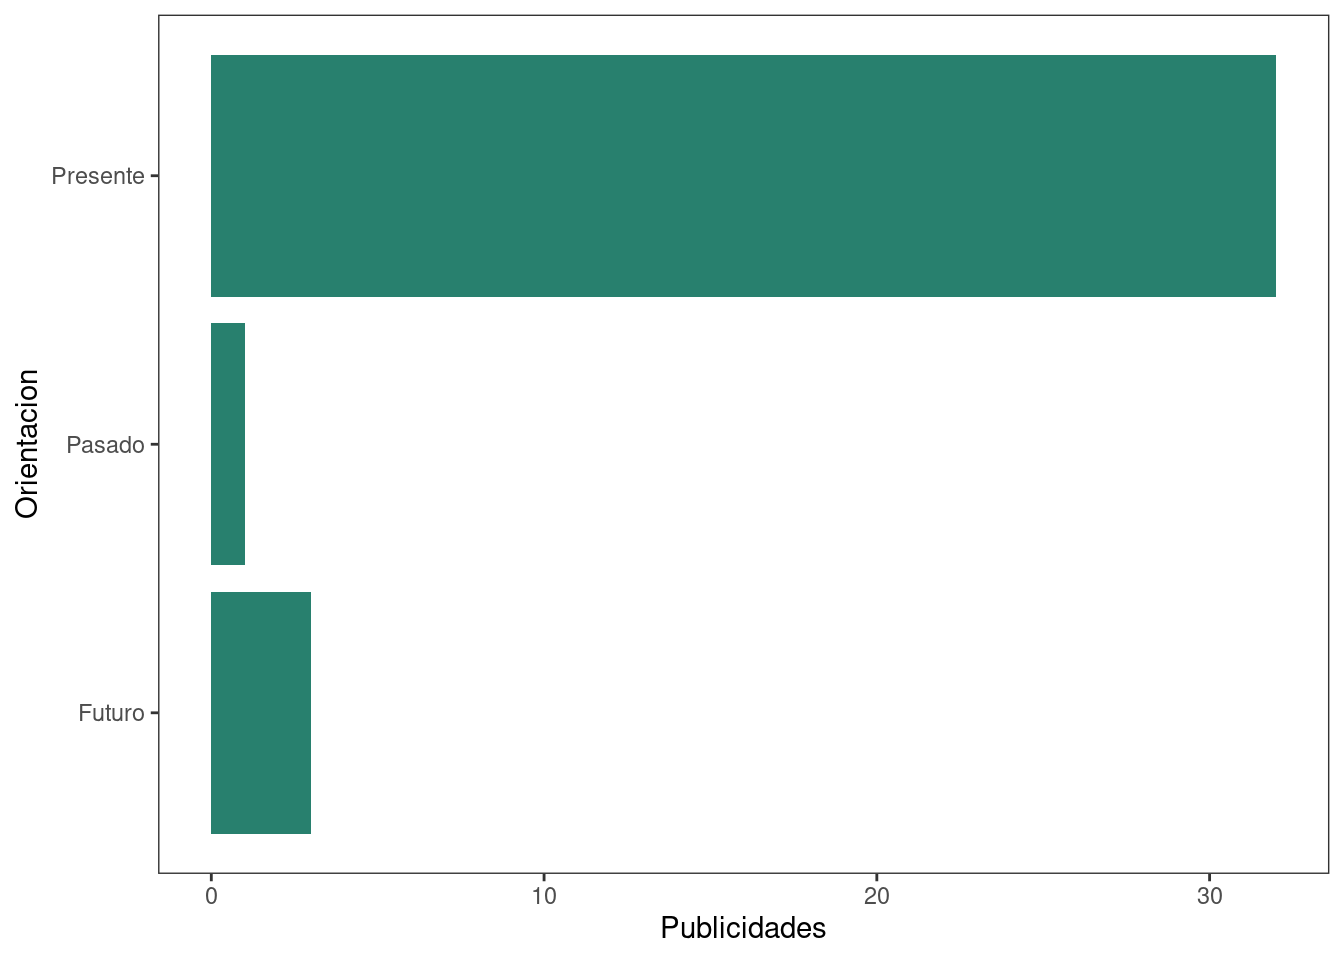
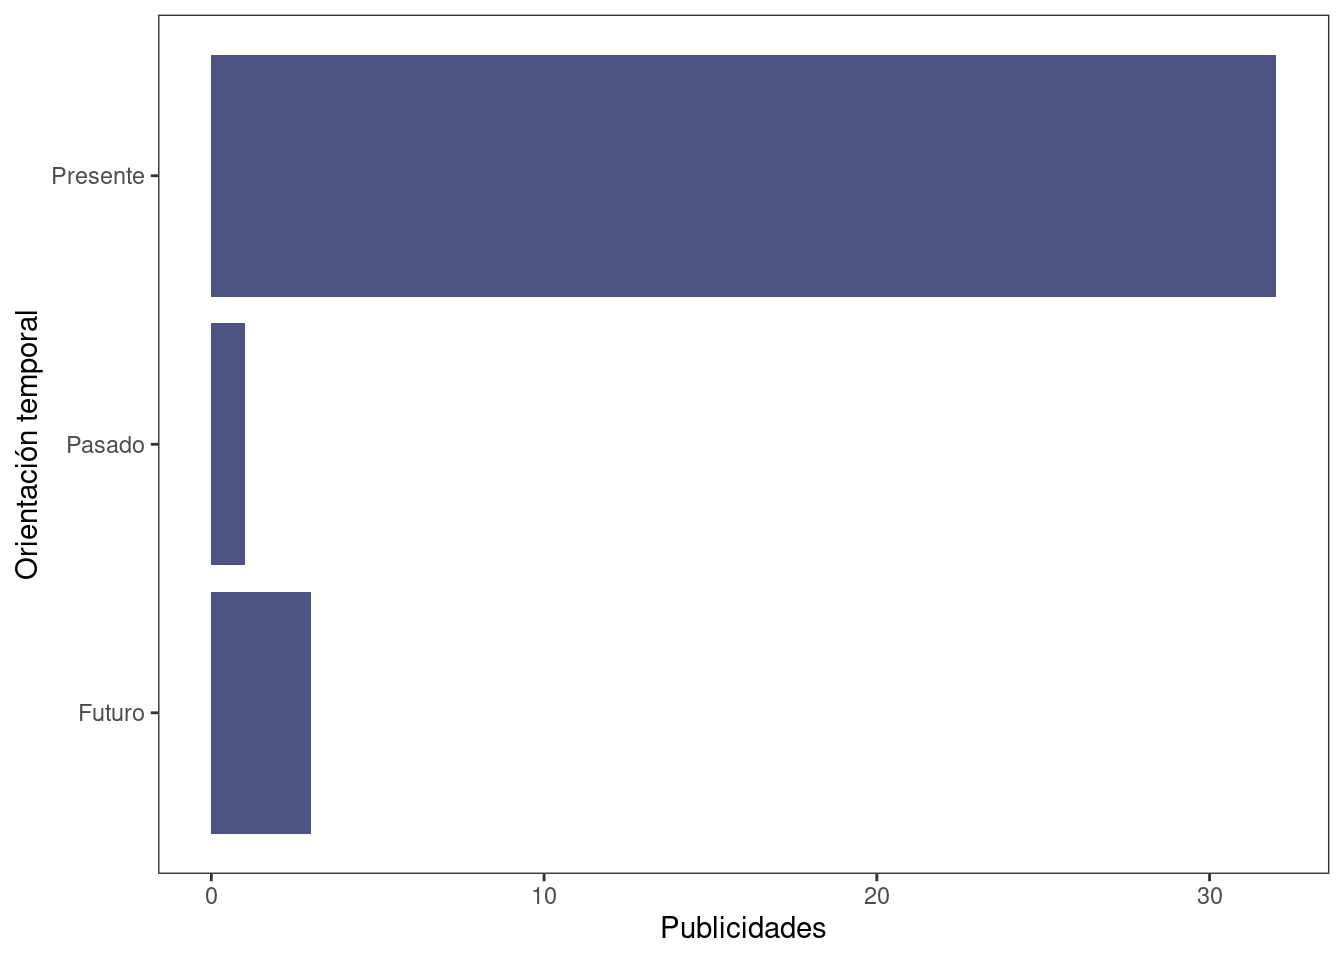
HEX Publicitario RColorBrewer

Changed region(s): [[0.1562, 0.0312, 0.9688, 0.875], [0.0, 0.3125, 0.0312, 0.5938]]

diff --git a/Análisis exploratorio/Training and exploration.html b/Análisis exploratorio/Training and exploration.html
@@ -168,7 +168,7 @@ The following object is masked from 'package:dplyr':
 <div class="cell">
 <div class="cell-output-display">
 
-<table class=" lightable-paper table table-striped" style="font-family: &quot;Arial Narrow&quot;, arial, helvetica, sans-serif; margin-left: auto; margin-right: auto; font-size: 10px; margin-left: auto; margin-right: auto;">
+<table class=" lightable-paper table table-striped" style="font-family: &quot;Arial Narrow&quot;, arial, helvetica, sans-serif; margin-left: auto; margin-right: auto; font-size: 12px; margin-left: auto; margin-right: auto;">
 <caption style="font-size: initial !important;">Raw Data</caption>
  <thead>
   <tr>
@@ -732,8 +732,8 @@ The following object is masked from 'package:dplyr':
 </div>
 <p>Es apreciable la abundancia de material posible de recolectar por sobre la Línea B de Subte.</p>
 </section>
-<section id="orientación-temporal" class="level4">
-<h4 class="anchored" data-anchor-id="orientación-temporal">Orientación temporal</h4>
+<section id="rq1-cómo-es-representado-el-tiempo-en-las-publicidades-gráficas-del-subte" class="level4">
+<h4 class="anchored" data-anchor-id="rq1-cómo-es-representado-el-tiempo-en-las-publicidades-gráficas-del-subte">RQ1: ¿Cómo es representado el tiempo en las publicidades gráficas del Subte?</h4>
 <p>Dados los parámetros arbitrarios de la base de datos, es interés abordar la variable de <code>orientación</code></p>
 <div class="cell">
 <div class="cell-output cell-output-stdout">
@@ -747,28 +747,23 @@ The following object is masked from 'package:dplyr':
 </div>
 <p>Si bien la cantidad de publicidades en <code>subte</code> es escasa, verifica una hipótesis vista en los antecedentes teóricos de la tesina acerca de la actividad publicitaria occidental:</p>
 <p>💡 Existe la tendencia publicitaria a referirse al presente, aunque existen aquellas que refieren al futuro o al pasado.</p>
-</section>
-<section id="cromática-y-productos" class="level4">
-<h4 class="anchored" data-anchor-id="cromática-y-productos">Cromática y productos</h4>
-<p>Distribución de escala cromática utilizada por las publicidades en razón de la categoría <code>Productos</code></p>
 <div class="cell">
-<div class="sourceCode cell-code" id="cb5"><pre class="sourceCode r code-with-copy"><code class="sourceCode r"><span id="cb5-1"><a href="#cb5-1" aria-hidden="true" tabindex="-1"></a>subte <span class="sc">%&gt;%</span></span>
-<span id="cb5-2"><a href="#cb5-2" aria-hidden="true" tabindex="-1"></a>  <span class="fu">group_by</span>(Cromatica, Producto) <span class="sc">%&gt;%</span></span>
-<span id="cb5-3"><a href="#cb5-3" aria-hidden="true" tabindex="-1"></a>  <span class="fu">tally</span>() <span class="sc">%&gt;%</span></span>
-<span id="cb5-4"><a href="#cb5-4" aria-hidden="true" tabindex="-1"></a>  <span class="fu">ggplot</span>(<span class="fu">aes</span>(<span class="at">x=</span>Producto,<span class="at">y=</span>n,<span class="at">fill=</span>Cromatica))<span class="sc">+</span></span>
-<span id="cb5-5"><a href="#cb5-5" aria-hidden="true" tabindex="-1"></a>  <span class="fu">geom_col</span>()<span class="sc">+</span></span>
-<span id="cb5-6"><a href="#cb5-6" aria-hidden="true" tabindex="-1"></a>  <span class="fu">ylab</span>(<span class="st">"Publicidades"</span>)<span class="sc">+</span></span>
-<span id="cb5-7"><a href="#cb5-7" aria-hidden="true" tabindex="-1"></a>  <span class="fu">xlab</span>(<span class="st">"Producto comercializado"</span>)</span></code><button title="Copy to Clipboard" class="code-copy-button"><i class="bi"></i></button></pre></div>
 <div class="cell-output-display">
 <p><img src="Training-and-exploration_files/figure-html/unnamed-chunk-7-1.png" class="img-fluid" width="672"></p>
 </div>
 </div>
+</section>
+<section id="rq2cuál-es-la-utilización-de-la-paleta-de-colores-en-las-publicidades-de-la-ciudad-de-buenos-aires" class="level4">
+<h4 class="anchored" data-anchor-id="rq2cuál-es-la-utilización-de-la-paleta-de-colores-en-las-publicidades-de-la-ciudad-de-buenos-aires">RQ2:¿Cuál es la utilización de la paleta de colores en las publicidades de la Ciudad de Buenos Aires?</h4>
+<p>Distribución de escala cromática utilizada por las publicidades en razón de la categoría <code>Productos</code></p>
 <div class="cell">
 <div class="cell-output-display">
 <p><img src="Training-and-exploration_files/figure-html/unnamed-chunk-8-1.png" class="img-fluid" width="672"></p>
 </div>
 </div>
 <div class="cell">
+<div class="sourceCode cell-code" id="cb5"><pre class="sourceCode r code-with-copy"><code class="sourceCode r"><span id="cb5-1"><a href="#cb5-1" aria-hidden="true" tabindex="-1"></a><span class="fu">library</span>(<span class="st">"RColorBrewer"</span>)</span>
+<span id="cb5-2"><a href="#cb5-2" aria-hidden="true" tabindex="-1"></a><span class="fu">display.brewer.pal</span>(<span class="at">n =</span> <span class="dv">8</span>, <span class="at">name =</span> <span class="st">'RdBu'</span>)</span></code><button title="Copy to Clipboard" class="code-copy-button"><i class="bi"></i></button></pre></div>
 <div class="cell-output-display">
 <p><img src="Training-and-exploration_files/figure-html/unnamed-chunk-9-1.png" class="img-fluid" width="672"></p>
 </div>
